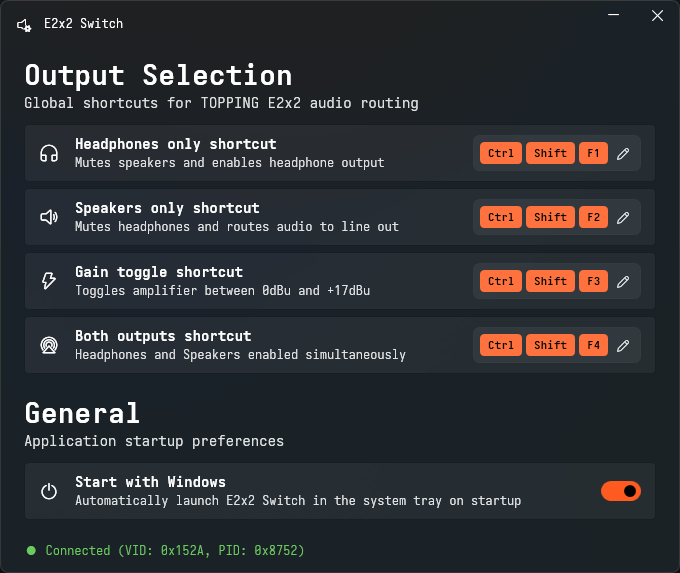
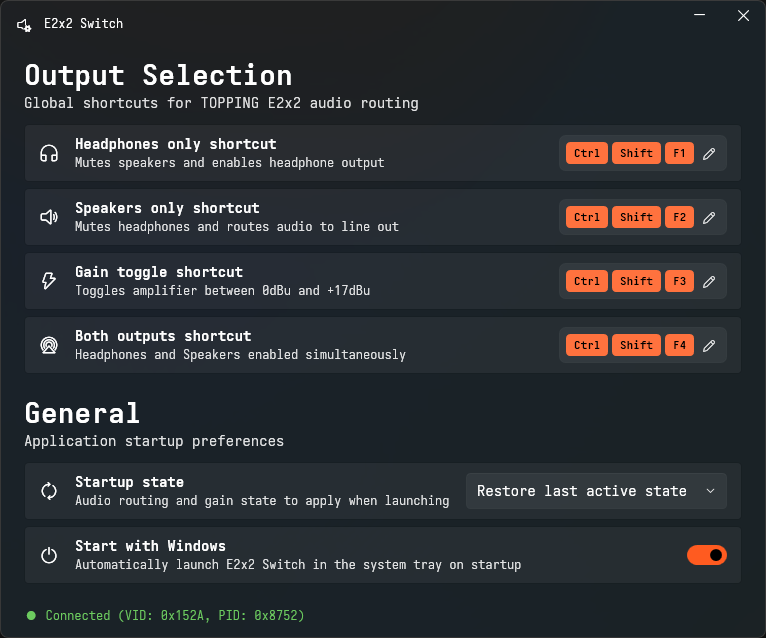
Add Configurable Startup State Setting & Disable Focusable for Main Window
- Add StartupBehavior enum to AppConfig supporting last-state restoration, specific presets, or passive hardware tracking
- Add ApplyState method in ToppingService to transmit unified output routing and gain packet sequences
- Add Startup State selection dropdown card to the General settings section
- Actively apply the configured startup preset to the hardware on launch to prevent initial desynchronization
- Add TextWrapping and column margin separation to card subtitles to prevent overlap with controls on smaller window widths
- Handle Esc in OnPreviewKeyDown to clear keyboard focus highlights and dismiss open ComboBox dropdowns
- Disable Focusable and clear FocusVisualStyle on FluentWindow, root Grid, and ScrollViewer
- Prevent WPF menu navigation mode from drawing an adorner outline around the window content
- Update preview image

diff --git a/E2x2Switch/Views/MainWindow.xaml b/E2x2Switch/Views/MainWindow.xaml
@@ -3,13 +3,15 @@
                  xmlns:x="http://schemas.microsoft.com/winfx/2006/xaml"
                  xmlns:ui="http://schemas.lepo.co/wpfui/2022/xaml"
                  Title="E2x2 Switch"
-                Height="480"
+                Height="530"
                 Width="680"
-                 MinHeight="320"
+                 MinHeight="360"
                 MinWidth="520"
                  WindowStartupLocation="CenterScreen"
                  WindowBackdropType="Mica"
-                 ExtendsContentIntoTitleBar="True">
+                 ExtendsContentIntoTitleBar="True"
+                 Focusable="False"
+                 FocusVisualStyle="{x:Null}">
 
         <ui:FluentWindow.Resources>
                 <!-- Fluent Hotkey Button Plate -->
@@ -60,7 +62,8 @@
                 </Style>
         </ui:FluentWindow.Resources>
 
-        <Grid>
+        <Grid Focusable="False"
+                        FocusVisualStyle="{x:Null}">
                 <Grid.RowDefinitions>
                         <RowDefinition Height="Auto"/>
                         <RowDefinition Height="*"/>
@@ -79,17 +82,20 @@
 
                 <!-- 2. Scrollable Body Content -->
                 <ScrollViewer Grid.Row="1"
+                              Focusable="False"
+                              FocusVisualStyle="{x:Null}"
                               VerticalScrollBarVisibility="Auto"
                               HorizontalScrollBarVisibility="Disabled"
                               Padding="24,6,24,10">
-                        <StackPanel>
+                        <StackPanel Focusable="False">
                                 <!-- Section 1: Output Selection -->
                                 <StackPanel Margin="0,4,0,12">
                                         <ui:TextBlock Text="Output Selection"
                                                         FontTypography="Title"/>
                                         <ui:TextBlock Text="Global shortcuts for TOPPING E2x2 audio routing"
                                                       FontTypography="Body"
-                                                        Foreground="{DynamicResource TextFillColorSecondaryBrush}"/>
+                                                      TextWrapping="Wrap"
+                                                      Foreground="{DynamicResource TextFillColorSecondaryBrush}"/>
                                 </StackPanel>
 
                                 <!-- Cards List -->
@@ -111,12 +117,14 @@
                                                                         Margin="0,0,16,0"/>
 
                                                         <StackPanel Grid.Column="1"
-                                                                        VerticalAlignment="Center">
+                                                                        VerticalAlignment="Center"
+                                                                        Margin="0,0,16,0">
                                                                 <ui:TextBlock Text="Headphones only shortcut"
                                                                                 FontTypography="BodyStrong"/>
                                                                 <ui:TextBlock Text="Mutes speakers and enables headphone output"
-                                                                                FontTypography="Caption"
-                                                                                Foreground="{DynamicResource TextFillColorSecondaryBrush}"/>
+                                                                              FontTypography="Caption"
+                                                                              TextWrapping="Wrap"
+                                                                              Foreground="{DynamicResource TextFillColorSecondaryBrush}"/>
                                                         </StackPanel>
 
                                                         <Button Grid.Column="2"
@@ -146,12 +154,14 @@
                                                                         Margin="0,0,16,0"/>
 
                                                         <StackPanel Grid.Column="1"
-                                                                        VerticalAlignment="Center">
+                                                                        VerticalAlignment="Center"
+                                                                        Margin="0,0,16,0">
                                                                 <ui:TextBlock Text="Speakers only shortcut"
                                                                                 FontTypography="BodyStrong"/>
                                                                 <ui:TextBlock Text="Mutes headphones and routes audio to line out"
-                                                                                FontTypography="Caption"
-                                                                                Foreground="{DynamicResource TextFillColorSecondaryBrush}"/>
+                                                                              FontTypography="Caption"
+                                                                              TextWrapping="Wrap"
+                                                                              Foreground="{DynamicResource TextFillColorSecondaryBrush}"/>
                                                         </StackPanel>
 
                                                         <Button Grid.Column="2"
@@ -181,12 +191,14 @@
                                                                         Margin="0,0,16,0"/>
 
                                                         <StackPanel Grid.Column="1"
-                                                                        VerticalAlignment="Center">
+                                                                        VerticalAlignment="Center"
+                                                                        Margin="0,0,16,0">
                                                                 <ui:TextBlock Text="Gain toggle shortcut"
                                                                                 FontTypography="BodyStrong"/>
                                                                 <ui:TextBlock Text="Toggles amplifier between 0dBu and +17dBu"
-                                                                                FontTypography="Caption"
-                                                                                Foreground="{DynamicResource TextFillColorSecondaryBrush}"/>
+                                                                              FontTypography="Caption"
+                                                                              TextWrapping="Wrap"
+                                                                              Foreground="{DynamicResource TextFillColorSecondaryBrush}"/>
                                                         </StackPanel>
 
                                                         <Button Grid.Column="2"
@@ -216,12 +228,14 @@
                                                                         Margin="0,0,16,0"/>
 
                                                         <StackPanel Grid.Column="1"
-                                                                        VerticalAlignment="Center">
+                                                                        VerticalAlignment="Center"
+                                                                        Margin="0,0,16,0">
                                                                 <ui:TextBlock Text="Both outputs shortcut"
                                                                                 FontTypography="BodyStrong"/>
                                                                 <ui:TextBlock Text="Headphones and Speakers enabled simultaneously"
-                                                                                FontTypography="Caption"
-                                                                                Foreground="{DynamicResource TextFillColorSecondaryBrush}"/>
+                                                                              FontTypography="Caption"
+                                                                              TextWrapping="Wrap"
+                                                                              Foreground="{DynamicResource TextFillColorSecondaryBrush}"/>
                                                         </StackPanel>
 
                                                         <Button Grid.Column="2"
@@ -241,8 +255,55 @@
                                                         FontTypography="Title"/>
                                         <ui:TextBlock Text="Application startup preferences"
                                                       FontTypography="Body"
-                                                        Foreground="{DynamicResource TextFillColorSecondaryBrush}"/>
+                                                      TextWrapping="Wrap"
+                                                      Foreground="{DynamicResource TextFillColorSecondaryBrush}"/>
                                 </StackPanel>
+
+                                <!-- Startup State Card -->
+                                <ui:Card Margin="0,0,0,6"
+                                                Padding="14,10">
+                                        <Grid>
+                                                <Grid.ColumnDefinitions>
+                                                        <ColumnDefinition Width="Auto"/>
+                                                        <ColumnDefinition Width="*"/>
+                                                        <ColumnDefinition Width="Auto"/>
+                                                </Grid.ColumnDefinitions>
+
+                                                <ui:SymbolIcon Symbol="ArrowSync24"
+                                                                FontSize="20"
+                                                                Margin="0,0,16,0"/>
+
+                                                <StackPanel Grid.Column="1"
+                                                                VerticalAlignment="Center"
+                                                                Margin="0,0,16,0">
+                                                        <ui:TextBlock Text="Startup state"
+                                                                        FontTypography="BodyStrong"/>
+                                                        <ui:TextBlock Text="Audio routing and gain state to apply when launching"
+                                                                      FontTypography="Caption"
+                                                                      TextWrapping="Wrap"
+                                                                      Foreground="{DynamicResource TextFillColorSecondaryBrush}"/>
+                                                </StackPanel>
+
+                                                <ComboBox Grid.Column="2"
+                                                                x:Name="StartupBehaviorComboBox"
+                                                          MinWidth="200"
+                                                                VerticalAlignment="Center"
+                                                          SelectionChanged="StartupBehaviorComboBox_SelectionChanged">
+                                                        <ComboBoxItem Content="Restore last active state"
+                                                                        Tag="RestoreLastState"/>
+                                                        <ComboBoxItem Content="Headphones Only (Low Gain)"
+                                                                        Tag="HeadphonesLowGain"/>
+                                                        <ComboBoxItem Content="Headphones Only (High Gain)"
+                                                                        Tag="HeadphonesHighGain"/>
+                                                        <ComboBoxItem Content="Speakers Only"
+                                                                        Tag="SpeakersOnly"/>
+                                                        <ComboBoxItem Content="Both Outputs"
+                                                                        Tag="BothOutputs"/>
+                                                        <ComboBoxItem Content="None (Keep hardware state)"
+                                                                        Tag="None"/>
+                                                </ComboBox>
+                                        </Grid>
+                                </ui:Card>
 
                                 <!-- Start with Windows Card -->
                                 <ui:Card Margin="0,0,0,6"
@@ -259,12 +320,14 @@
                                                                 Margin="0,0,16,0"/>
 
                                                 <StackPanel Grid.Column="1"
-                                                                VerticalAlignment="Center">
+                                                                VerticalAlignment="Center"
+                                                                Margin="0,0,16,0">
                                                         <ui:TextBlock Text="Start with Windows"
                                                                         FontTypography="BodyStrong"/>
                                                         <ui:TextBlock Text="Automatically launch E2x2 Switch in the system tray on startup"
-                                                                        FontTypography="Caption"
-                                                                        Foreground="{DynamicResource TextFillColorSecondaryBrush}"/>
+                                                                      FontTypography="Caption"
+                                                                      TextWrapping="Wrap"
+                                                                      Foreground="{DynamicResource TextFillColorSecondaryBrush}"/>
                                                 </StackPanel>
 
                                                 <ui:ToggleSwitch Grid.Column="2"

diff --git a/E2x2Switch/Views/MainWindow.xaml.cs b/E2x2Switch/Views/MainWindow.xaml.cs
@@ -12,6 +12,7 @@ using Wpf.Ui.Appearance;
 using Wpf.Ui.Controls;
 using GdiColor = System.Drawing.Color;
 using WpfBrush = System.Windows.Media.Brush;
+using WpfKeyEventArgs = System.Windows.Input.KeyEventArgs;
 using WpfTextBlock = System.Windows.Controls.TextBlock;
 
 namespace E2x2Switch.Views;
@@ -40,8 +41,6 @@ public partial class MainWindow : FluentWindow
     {
         InitializeComponent();
 
-        _topping.InitializeState(_config.LastOutputMode, _config.LastGainIsHigh);
-
         var systemAccent = ApplicationAccentColorManager.GetColorizationColor();
         ApplicationThemeManager.Apply(ApplicationTheme.Dark, WindowBackdropType.Mica, updateAccent: true);
         ApplicationAccentColorManager.Apply(systemAccent, ApplicationTheme.Dark);
@@ -55,12 +54,14 @@ public partial class MainWindow : FluentWindow
         UpdateAllPills();
 
         StartWithWindowsToggle.IsChecked = StartupService.IsStartWithWindowsEnabled();
+        SelectStartupBehaviorItem(_config.StartupState);
 
-        // Hook up hardware monitoring and event sync
         _topping.GainChanged += OnHardwareGainChanged;
         _topping.OutputModeChanged += OnHardwareOutputModeChanged;
         _topping.ConnectionChanged += OnHardwareConnectionChanged;
         _topping.StartMonitoring();
+
+        ApplyInitialStartupState();
 
         _heartbeatTimer.Interval = TimeSpan.FromSeconds(2);
         _heartbeatTimer.Tick += (s, e) => UpdateConnectionStatus();
@@ -72,6 +73,77 @@ public partial class MainWindow : FluentWindow
         UpdateTrayState();
 
         SystemEvents.UserPreferenceChanged += SystemEvents_UserPreferenceChanged;
+    }
+
+    protected override void OnPreviewKeyDown(WpfKeyEventArgs e)
+    {
+        if (e.Key == Key.Escape)
+        {
+            if (StartupBehaviorComboBox.IsDropDownOpen)
+            {
+                StartupBehaviorComboBox.IsDropDownOpen = false;
+                e.Handled = true;
+                return;
+            }
+
+            // Clear keyboard focus from any control to remove the focus highlight
+            Keyboard.ClearFocus();
+            Focus();
+            e.Handled = true;
+            return;
+        }
+
+        base.OnPreviewKeyDown(e);
+    }
+
+    private void ApplyInitialStartupState()
+    {
+        switch (_config.StartupState)
+        {
+            case StartupBehavior.RestoreLastState:
+                _topping.ApplyState(_config.LastOutputMode, _config.LastGainIsHigh);
+                break;
+            case StartupBehavior.HeadphonesLowGain:
+                _topping.ApplyState(AudioOutputMode.Headphones, false);
+                break;
+            case StartupBehavior.HeadphonesHighGain:
+                _topping.ApplyState(AudioOutputMode.Headphones, true);
+                break;
+            case StartupBehavior.SpeakersOnly:
+                _topping.ApplyState(AudioOutputMode.Speakers, false);
+                break;
+            case StartupBehavior.BothOutputs:
+                _topping.ApplyState(AudioOutputMode.Both, false);
+                break;
+            case StartupBehavior.None:
+            default:
+                _topping.InitializeState(_config.LastOutputMode, _config.LastGainIsHigh);
+                break;
+        }
+
+        PersistStateAndRefresh();
+    }
+
+    private void SelectStartupBehaviorItem(StartupBehavior behavior)
+    {
+        string tag = behavior.ToString();
+        foreach (ComboBoxItem item in StartupBehaviorComboBox.Items)
+        {
+            if (item.Tag?.ToString() == tag)
+            {
+                StartupBehaviorComboBox.SelectedItem = item;
+                break;
+            }
+        }
+    }
+
+    private void StartupBehaviorComboBox_SelectionChanged(object sender, SelectionChangedEventArgs e)
+    {
+        if (StartupBehaviorComboBox.SelectedItem is ComboBoxItem item && Enum.TryParse<StartupBehavior>(item.Tag?.ToString(), out var behavior))
+        {
+            _config.StartupState = behavior;
+            _config.Save();
+        }
     }
 
     private void OnHardwareGainChanged(bool gainIsHigh)

diff --git a/E2x2Switch/Services/ToppingService.cs b/E2x2Switch/Services/ToppingService.cs
@@ -44,7 +44,7 @@ public class ToppingService : IDisposable
         _readThread.Start();
     }
 
-    /// <summary>Initializes software tracking state.</summary>
+    /// <summary>Initializes software tracking state without transmitting packets.</summary>
     public void InitializeState(AudioOutputMode mode, bool gainIsHigh)
     {
         CurrentMode = mode;
@@ -52,6 +52,21 @@ public class ToppingService : IDisposable
 
         _lastHpState = mode is AudioOutputMode.Headphones or AudioOutputMode.Both;
         _lastSpkState = mode is AudioOutputMode.Speakers or AudioOutputMode.Both;
+    }
+
+    /// <summary>Applies the specified output routing and gain state directly to the hardware.</summary>
+    public void ApplyState(AudioOutputMode mode, bool gainIsHigh)
+    {
+        CurrentMode = mode;
+        GainIsHigh = gainIsHigh;
+        _lastHpState = mode is AudioOutputMode.Headphones or AudioOutputMode.Both;
+        _lastSpkState = mode is AudioOutputMode.Speakers or AudioOutputMode.Both;
+
+        byte[] hpPacket = _lastHpState.Value ? s_cmdHpOn : s_cmdHpMute;
+        byte[] spkPacket = _lastSpkState.Value ? s_cmdSpkOn : s_cmdSpkMute;
+        byte[] gainPacket = gainIsHigh ? s_cmdGainHigh : s_cmdGainLow;
+
+        SendPackets(hpPacket, spkPacket, gainPacket, s_cmdRoute1, s_cmdRoute2);
     }
 
     private void ReadLoop()

diff --git a/E2x2Switch/Models/AppConfig.cs b/E2x2Switch/Models/AppConfig.cs
@@ -5,6 +5,17 @@ using E2x2Switch.Services;
 
 namespace E2x2Switch.Models;
 
+/// <summary>Configurable startup state application behavior.</summary>
+public enum StartupBehavior
+{
+    RestoreLastState,
+    HeadphonesLowGain,
+    HeadphonesHighGain,
+    SpeakersOnly,
+    BothOutputs,
+    None,
+}
+
 /// <summary>Represents a single modifier + key shortcut binding.</summary>
 public class HotkeyBinding
 {
@@ -45,6 +56,7 @@ public class AppConfig
 
     public AudioOutputMode LastOutputMode { get; set; } = AudioOutputMode.Headphones;
     public bool LastGainIsHigh { get; set; } = false;
+    public StartupBehavior StartupState { get; set; } = StartupBehavior.RestoreLastState;
 
     private static readonly string s_configPath = Path.Combine(AppContext.BaseDirectory, "config.json");
 
